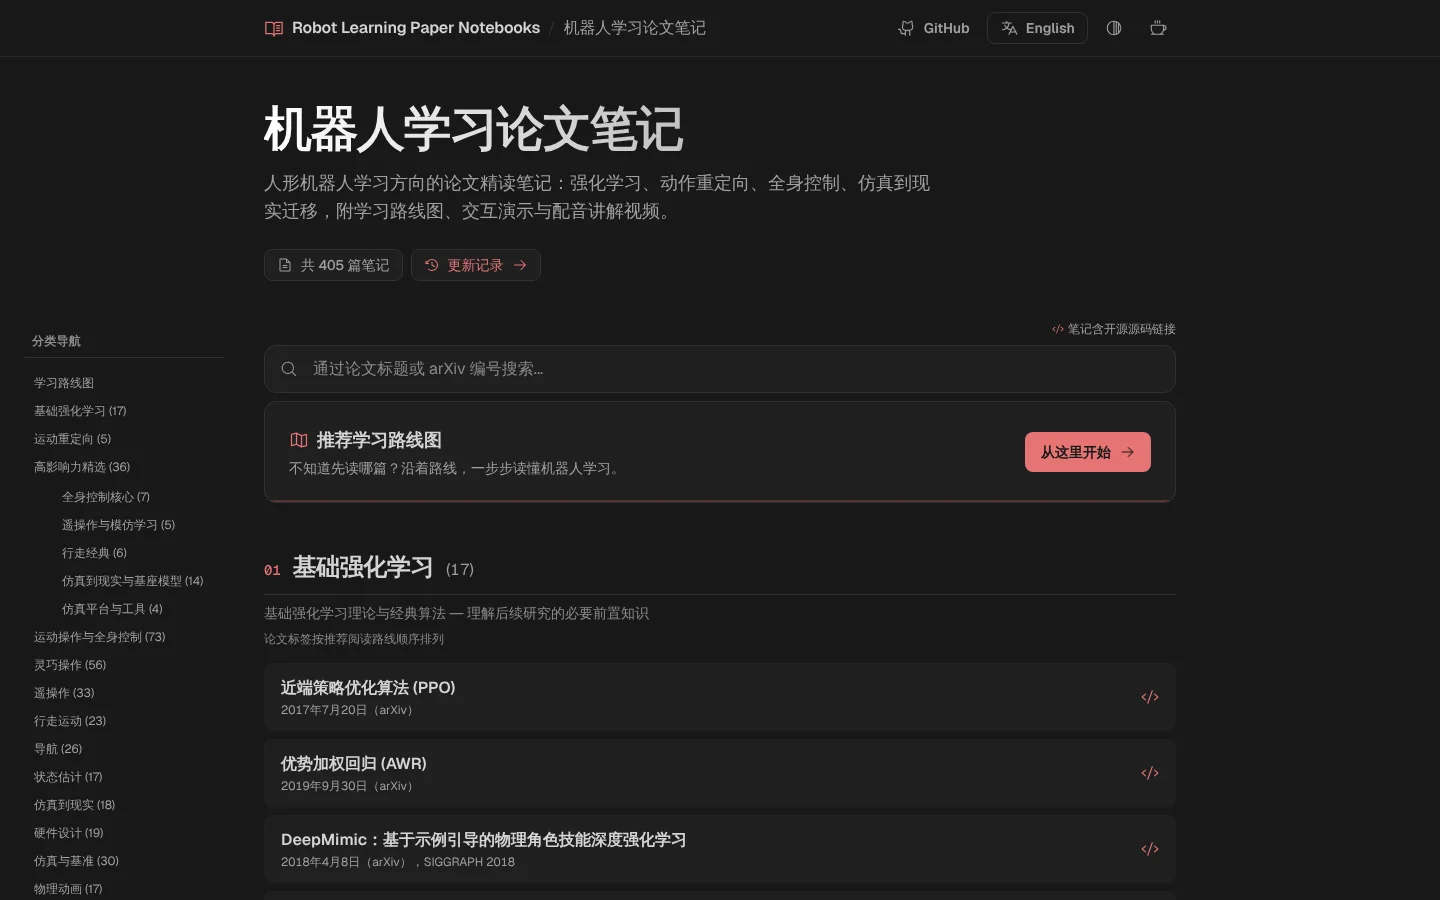
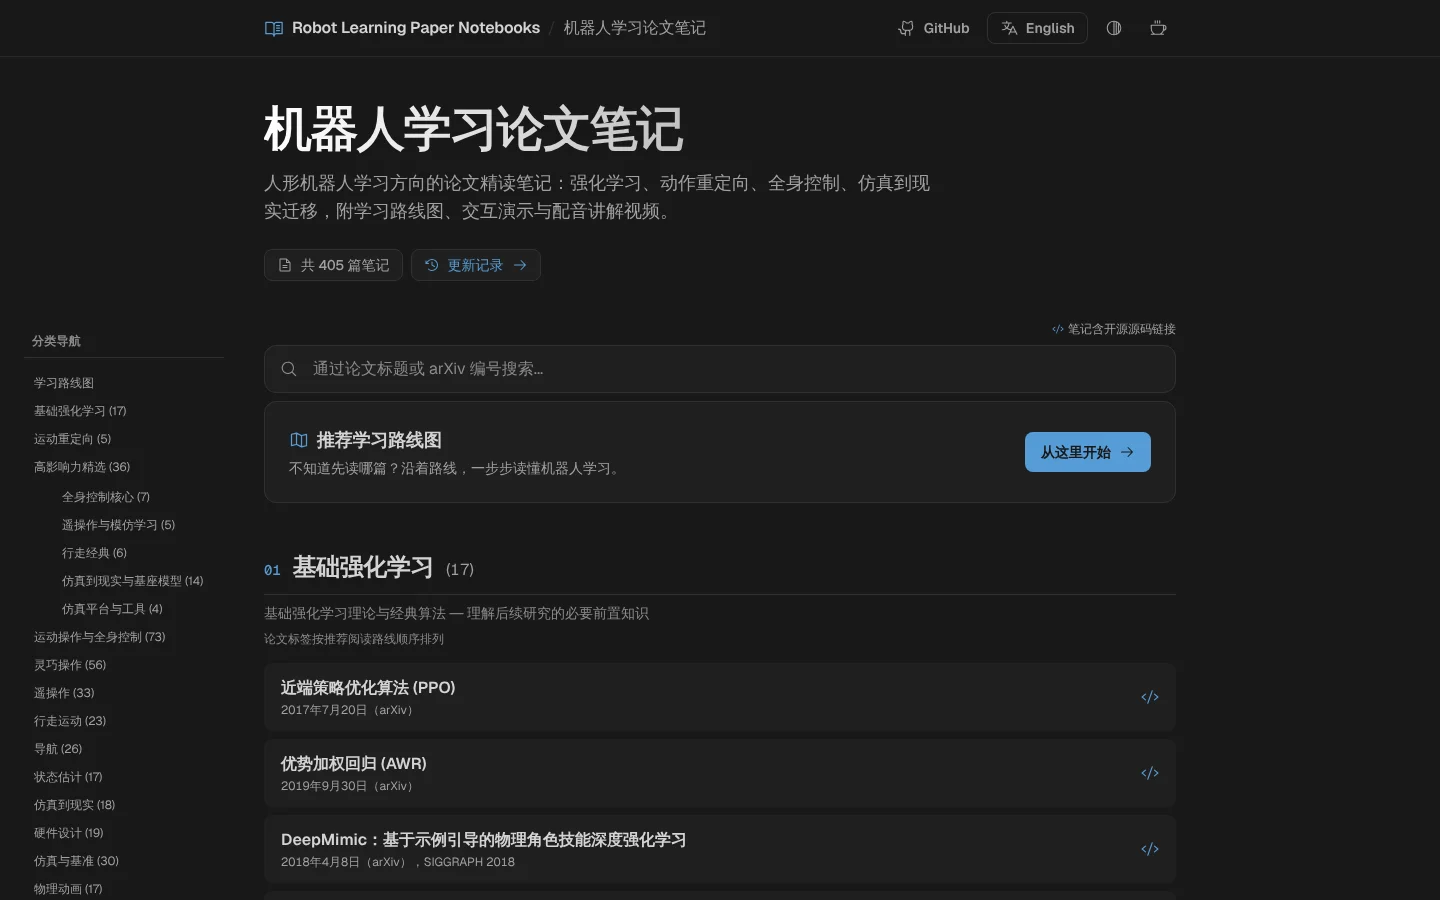
style(Site): 配色恢复深色配蓝、浅色配红
深色模式的强调色、热力图、路线图流动线改回 #569cd6 一系的蓝，浅色保持 arXiv 红；
遮罩与阴影按各自主题的强调色染色，favicon 跟随系统深浅切换颜色，分享图与 PR 截图同步更新。

Claude-Session: https://claude.ai/code/session_01RxDWJ885BRxTDoaRE9vraD

Changed region(s): [[0.6875, 0.4667, 0.8125, 0.5289], [0.3125, 0.28, 0.375, 0.3111], [0.1875, 0.4667, 0.2188, 0.4978]]

diff --git a/assets/css/style.css b/assets/css/style.css
@@ -76,8 +76,8 @@
 
 /* ===== Colour tokens (default / :root = dark) =====
    Dark surfaces sit on the #181818 / #1F1F1F / #272727 / #313131 steps. One accent
-   hue for both themes: arXiv red, lifted to #e77474 on dark so link text keeps the
-   6:1 contrast the old blue had. Shadows are tinted toward the accent hue. */
+   per theme, as the site always had: VS Code blue on dark, arXiv red on light.
+   Shadows and scrims are tinted toward that theme's accent. */
 :root,
 [data-theme="dark"] {
   --bg: #181818;
@@ -86,21 +86,22 @@
   --text: #d4d4d4;
   --text-secondary: #a0a0a0;
   --text-muted: #8a8a8a;
-  --link: #e77474;
-  --link-hover: #eea0a0;
+  --link: #569cd6;
+  --link-hover: #9cdcfe;
   --border: #313131;
   --code-bg: #1F1F1F;
   --code-border: #313131;
   --header-bg: rgba(24, 24, 24, 0.82);
   --header-border: #272727;
   --card-bg: #1F1F1F;
-  --card-shadow: rgba(10, 2, 2, 0.45);
-  --blockquote-border: #e77474;
+  --card-shadow: rgba(2, 8, 16, 0.45);
+  --blockquote-border: #569cd6;
   --blockquote-bg: #1F1F1F;
   --table-stripe: #272727;
   --kbd-bg: #272727;
-  --roadmap-flow: #ea8686;
-  --accent-soft: rgba(231, 116, 116, 0.14);
+  --roadmap-flow: #7ec8ff;
+  --accent-soft: rgba(86, 156, 214, 0.14);
+  --scrim: rgba(2, 6, 12, 0.55);
   --hero-from: #FFFFFF;
   --hero-to: #9B9B9B;
 }
@@ -127,6 +128,7 @@
   --kbd-bg: #eee;
   --roadmap-flow: #e0564f;
   --accent-soft: rgba(179, 27, 27, 0.08);
+  --scrim: rgba(20, 6, 6, 0.45);
   --hero-from: #000000;
   --hero-to: #666666;
 }
@@ -993,7 +995,7 @@ body.index-search-active .paper-list-toggle-group {
   left: 0;
   width: 100%;
   height: 100%;
-  background: rgba(10, 4, 4, 0.48);
+  background: var(--scrim);
   -webkit-backdrop-filter: blur(4px);
   backdrop-filter: blur(4px);
   z-index: var(--z-overlay);
@@ -1606,7 +1608,7 @@ body.mermaid-lightbox-open {
 .mermaid-lightbox__backdrop {
   position: absolute;
   inset: 0;
-  background: rgba(10, 4, 4, 0.62);
+  background: var(--scrim);
   -webkit-backdrop-filter: blur(4px);
   backdrop-filter: blur(4px);
 }
@@ -2212,7 +2214,7 @@ body.sponsor-dialog-open {
 .sponsor-dialog__backdrop {
   position: absolute;
   inset: 0;
-  background: rgba(10, 4, 4, 0.55);
+  background: var(--scrim);
   backdrop-filter: blur(4px);
   -webkit-backdrop-filter: blur(4px);
 }
@@ -2729,17 +2731,17 @@ body.sponsor-dialog-open {
 }
 
 /* GitHub-style activity heatmap. Level colors follow the one site accent —
-   dark: red ramp rising to --link / a lighter tint; light: arXiv red ending at
+   dark: VS Code blue ending at --link/--link-hover; light: arXiv red ending at
    --link/--link-hover. Both ramps pass the ordinal checks (monotone lightness,
    adjacent ΔL ≥ 0.06, faintest step ≥ 2:1 vs surface). */
 .updates-heatmap {
   --hm-cell-min: 9px; /* cell width floor: below it the container scrolls */
   --hm-gap: 3px;
   --hm-level-0: #272727;
-  --hm-level-1: #962d2d;
-  --hm-level-2: #c24444;
-  --hm-level-3: #e77474;
-  --hm-level-4: #f3bcbc;
+  --hm-level-1: #1d4f8c;
+  --hm-level-2: #2a6cb4;
+  --hm-level-3: #569cd6;
+  --hm-level-4: #9cdcfe;
   --hm-cell-line: rgba(255, 255, 255, 0.06);
   background: var(--card-bg);
   border: 1px solid var(--border);

diff --git a/AGENTS.md b/AGENTS.md
@@ -228,7 +228,7 @@ demos: ["ppo"]
 - **字体**：拉丁字母用自托管的 Geist / Geist Mono（`assets/fonts/`，OFL），中文落到系统无衬线（PingFang SC / Noto Sans SC / 微软雅黑）。写 `var(--font-sans)` / `var(--font-mono)`，不要再写 Arial、Georgia；不用斜体，字重只用 400–700。
 - **字号**：只用 Tailwind 字号表 12 / 14 / 16 / 18 / 20 / 24 / 30 / 36 / 48 px；行内代码、KaTeX、标题里的计数这类跟着上下文缩放的可以写 `em`。论文正文 18px、行高 1.75（中文需要比字号表配的 28px 更宽的行距，这是有意的例外）。
 - **间距与圆角**：间距只用 0 2 4 8 12 16 24 32 40 48 64 80 96 px；圆角用 `--radius-sm / md / lg / xl / 2xl`（4 / 6 / 8 / 12 / 16），嵌套时内圆角 = 外圆角 − 间隙。
-- **颜色**：深色底 `#181818 / #1F1F1F / #272727 / #313131`；全站只有一个强调色（arXiv 红，深色模式提亮成 `#e77474` 保证对比度）。新颜色先加成 `:root` 里的变量，深浅两套都要定义。交互演示的 `--demo-*` 配色是独立的一套，不受这里约束。
+- **颜色**：深色底 `#181818 / #1F1F1F / #272727 / #313131`；每套主题只有一个强调色：深色是蓝（`#569cd6`），浅色是 arXiv 红（`#b31b1b`），沿用改版前的分工。新颜色先加成 `:root` 里的变量，深浅两套都要定义。交互演示的 `--demo-*` 配色是独立的一套，不受这里约束。
 - **动效**：过渡统一 `var(--ease)`（`cubic-bezier(0.32, 0.72, 0, 1)`），颜色类 `var(--dur-micro)`（240ms），位移类 `var(--dur)`（700ms）；不要再加全局 `*` 过渡，主题切换时的渐变由 `html.theme-switching` 负责。
 - **图标**：界面图标用 Phosphor（`_includes/icons.html` 的 sprite，`<svg class="icon"><use href="#i-名字"></use></svg>`），不要用 emoji 当界面图标；图标不能放进带 `data-en` / `data-zh` 的元素里（切换语言会整段替换 textContent）。笔记正文里的 emoji 不受限制。
 - **z-index**：用 `--z-*` 变量，不要写新的魔法数字。
